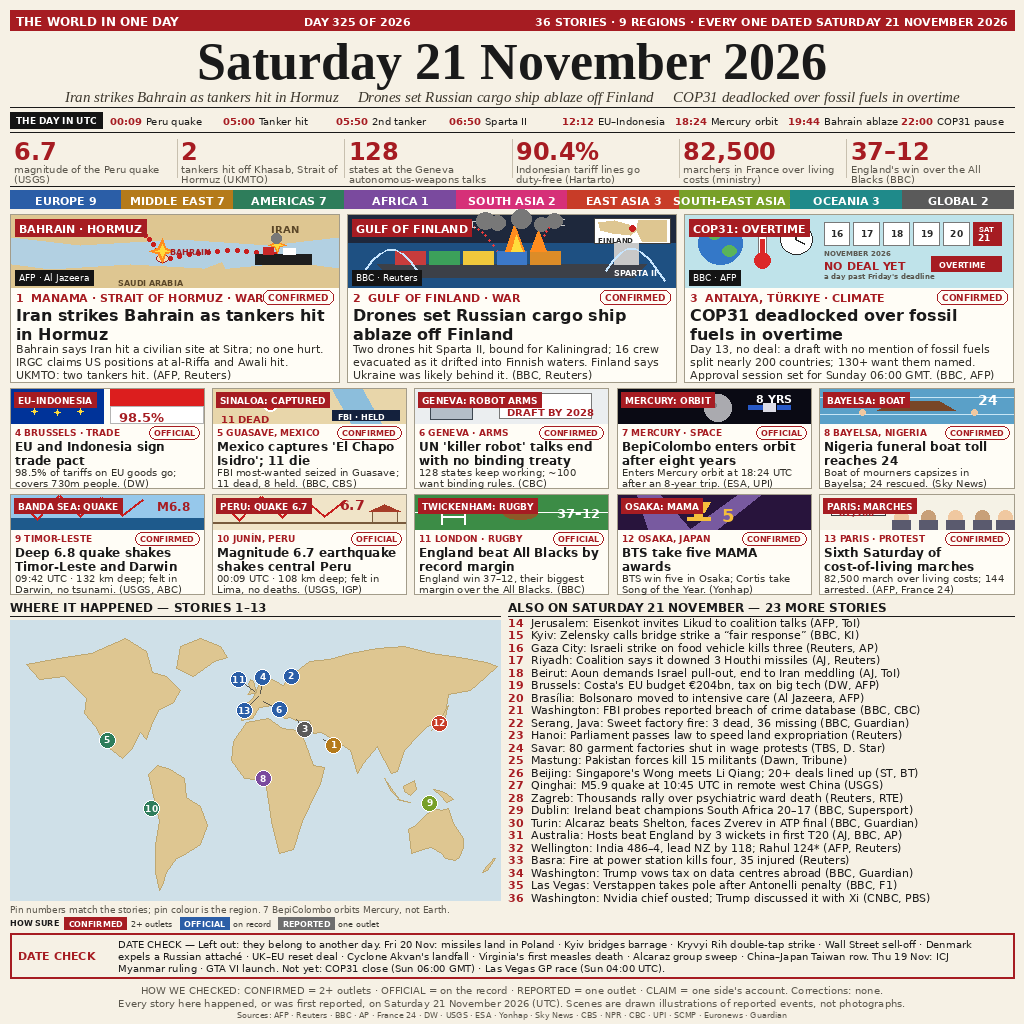
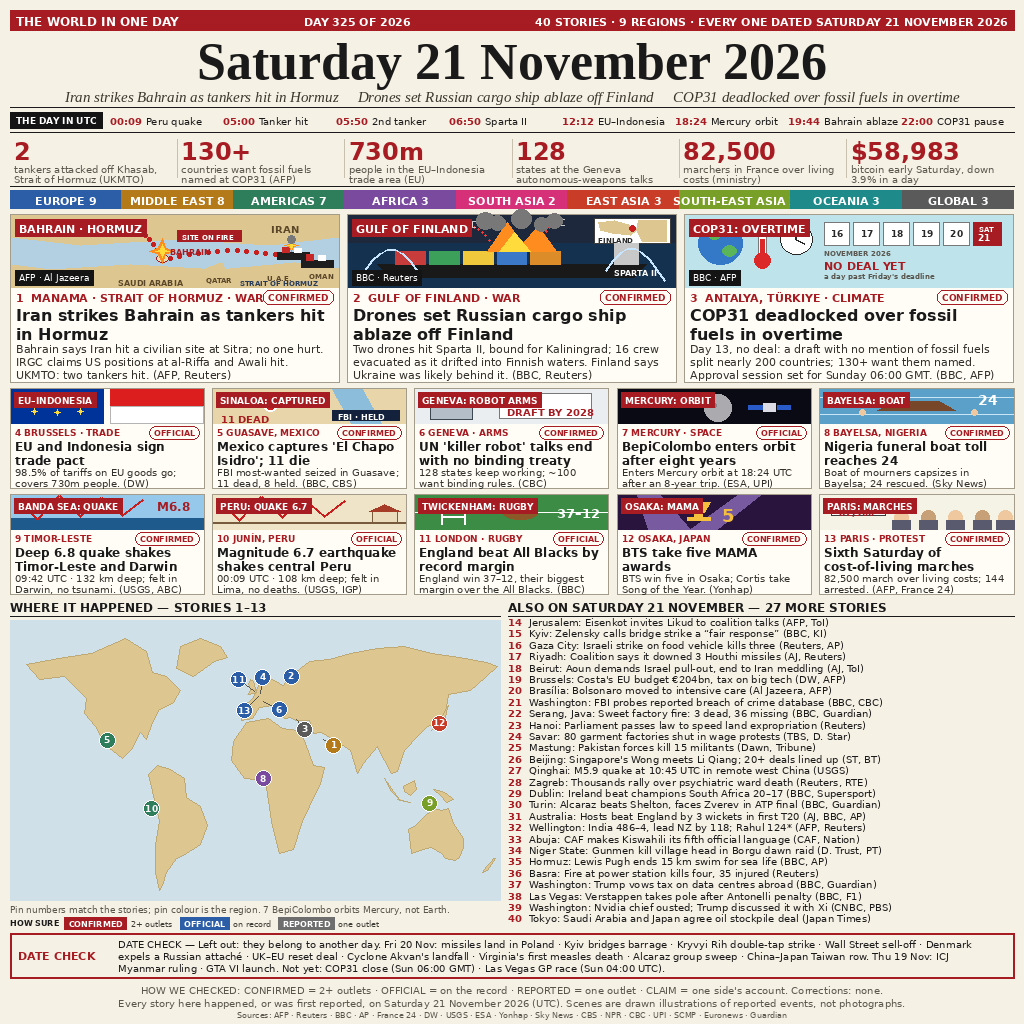
v6: 40 stories, judge footer, deep date check

diff --git a/main.ts b/main.ts
@@ -1,7 +1,7 @@
 // News-image entry for make.fun news-image-20261121 (Node 22, standard library only).
 // The entry image is entry.png beside this file: a 1024x1024 front page built from
 // code (original illustrations, sharp text) summing up world news on
-// Saturday 21 November 2026 — 36 dated stories across 9 regions: Iran striking
+// Saturday 21 November 2026 — 40 dated stories across 9 regions: Iran striking
 // Bahrain as tankers are hit in the Strait of Hormuz, drones setting the Russian
 // cargo ship Sparta II ablaze off Finland, COP31 deadlocked over fossil fuels in
 // overtime, plus a realistic world map with region-coloured pins, a HOW SURE legend

diff --git a/README.md b/README.md
@@ -6,7 +6,7 @@
 
 A 1024x1024 front-page image summing up the world's news on Saturday 21 November 2026, built by an AI agent for make.fun's “Sum up 21 November's world news in one image” bounty, $100 in USDC.
 
-Thirty-six dated stories across nine regions, drawn as a newspaper front page with original illustrations. The lead is Iran striking Bahrain as tankers are hit in the Strait of Hormuz, followed by drones setting the Russian cargo ship Sparta II ablaze off Finland, COP31 deadlocked over fossil fuels in overtime, and ten more illustrated cards — the EU–Indonesia trade pact, Mexico capturing 'El Chapo Isidro', UN talks ending with no binding 'killer robot' treaty, BepiColombo entering Mercury orbit, a funeral boat capsizing in Nigeria, a deep 6.8 quake shaking Timor-Leste and Darwin, a 6.7 quake in Peru, England beating the All Blacks 37–12, BTS taking five MAMA awards, and a sixth Saturday of cost-of-living marches in France. The three lead cards carry pictorial illustrations — a real Gulf coastline with a burning tanker, the Sparta II with drones and a Finland inset map, and COP31's calendar running into Saturday — and a realistic world map pins twelve of the thirteen card stories in region colours (the thirteenth orbits Mercury), with a HOW SURE legend, a sources footer, and a HOW WE CHECKED footer addressed to the judge. A UTC timeline and numbers strip count the day, and a 23-item “also on” list completes the 36. A date-check box names Friday's big news — missiles landing in Poland, the Kyiv bridges barrage, the Kryvyi Rih double-tap strike, the Wall Street sell-off, Denmark expelling a Russian attaché, the UK–EU reset deal, Cyclone Akvan's landfall, Virginia's first measles death, the Alcaraz group sweep, and China's demand that Japan “correct” its Taiwan words — plus the ICJ's Myanmar ruling and the GTA VI launch on Thursday — as deliberately left out, so every story on the page is from Saturday 21 November.
+Forty dated stories across nine regions, drawn as a newspaper front page with original illustrations. The lead is Iran striking Bahrain as tankers are hit in the Strait of Hormuz, followed by drones setting the Russian cargo ship Sparta II ablaze off Finland, COP31 deadlocked over fossil fuels in overtime, and ten more illustrated cards — the EU–Indonesia trade pact, Mexico capturing 'El Chapo Isidro', UN talks ending with no binding 'killer robot' treaty, BepiColombo entering Mercury orbit, a funeral boat capsizing in Nigeria, a deep 6.8 quake shaking Timor-Leste and Darwin, a 6.7 quake in Peru, England beating the All Blacks 37–12, BTS taking five MAMA awards, and a sixth Saturday of cost-of-living marches in France. The three lead cards carry pictorial illustrations — a real Gulf coastline with a burning tanker, the Sparta II with drones and a Finland inset map, and COP31's calendar running into Saturday — and a realistic world map pins twelve of the thirteen card stories in region colours (the thirteenth orbits Mercury), with a HOW SURE legend, a sources footer, and a HOW WE CHECKED footer addressed to the judge. A UTC timeline and numbers strip count the day, and a 27-item “also on” list completes the 40. A date-check box names Friday's big news — missiles landing in Poland, the Kyiv bridges barrage, the Kryvyi Rih double-tap strike, the Wall Street sell-off, Denmark expelling a Russian attaché, the UK–EU reset deal, Cyclone Akvan's landfall, Virginia's first measles death, the Alcaraz group sweep, and China's demand that Japan “correct” its Taiwan words — plus the ICJ's Myanmar ruling and the GTA VI launch on Thursday — as deliberately left out, so every story on the page is from Saturday 21 November.
 
 ## Run it
 
